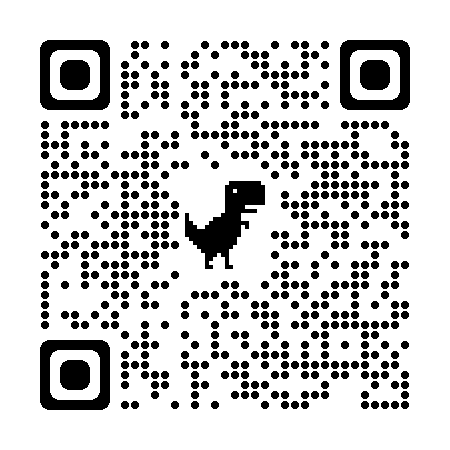
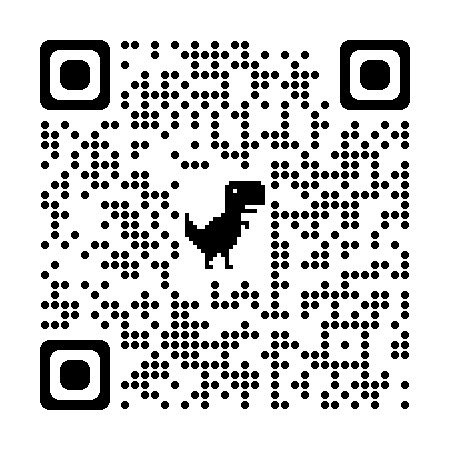
mobile

diff --git a/index.html b/index.html
@@ -103,6 +103,18 @@
         
         
         </section>
+        <section class="page-section bg-light" id="contact">
+            <div class="container px-4 px-lg-5">
+                <div class="row gx-4 gx-lg-5 justify-content-center">
+                    <div class="col-lg-8 text-center">
+                        <h2 class="text-dark mt-0">QR</h2>
+                        <hr class="divider divider-dark" />
+                        <img src="qrcode_guilherme-cabral-de-lima.github.io.png">
+                        
+                    </div>
+                </div>
+            </div>
+            </section>
         <!-- Footer-->
         <footer class="bg-light py-5">
             <div class="container px-4 px-lg-5"><div class="small text-center text-muted">Copyright &copy; 2022</div></div>
